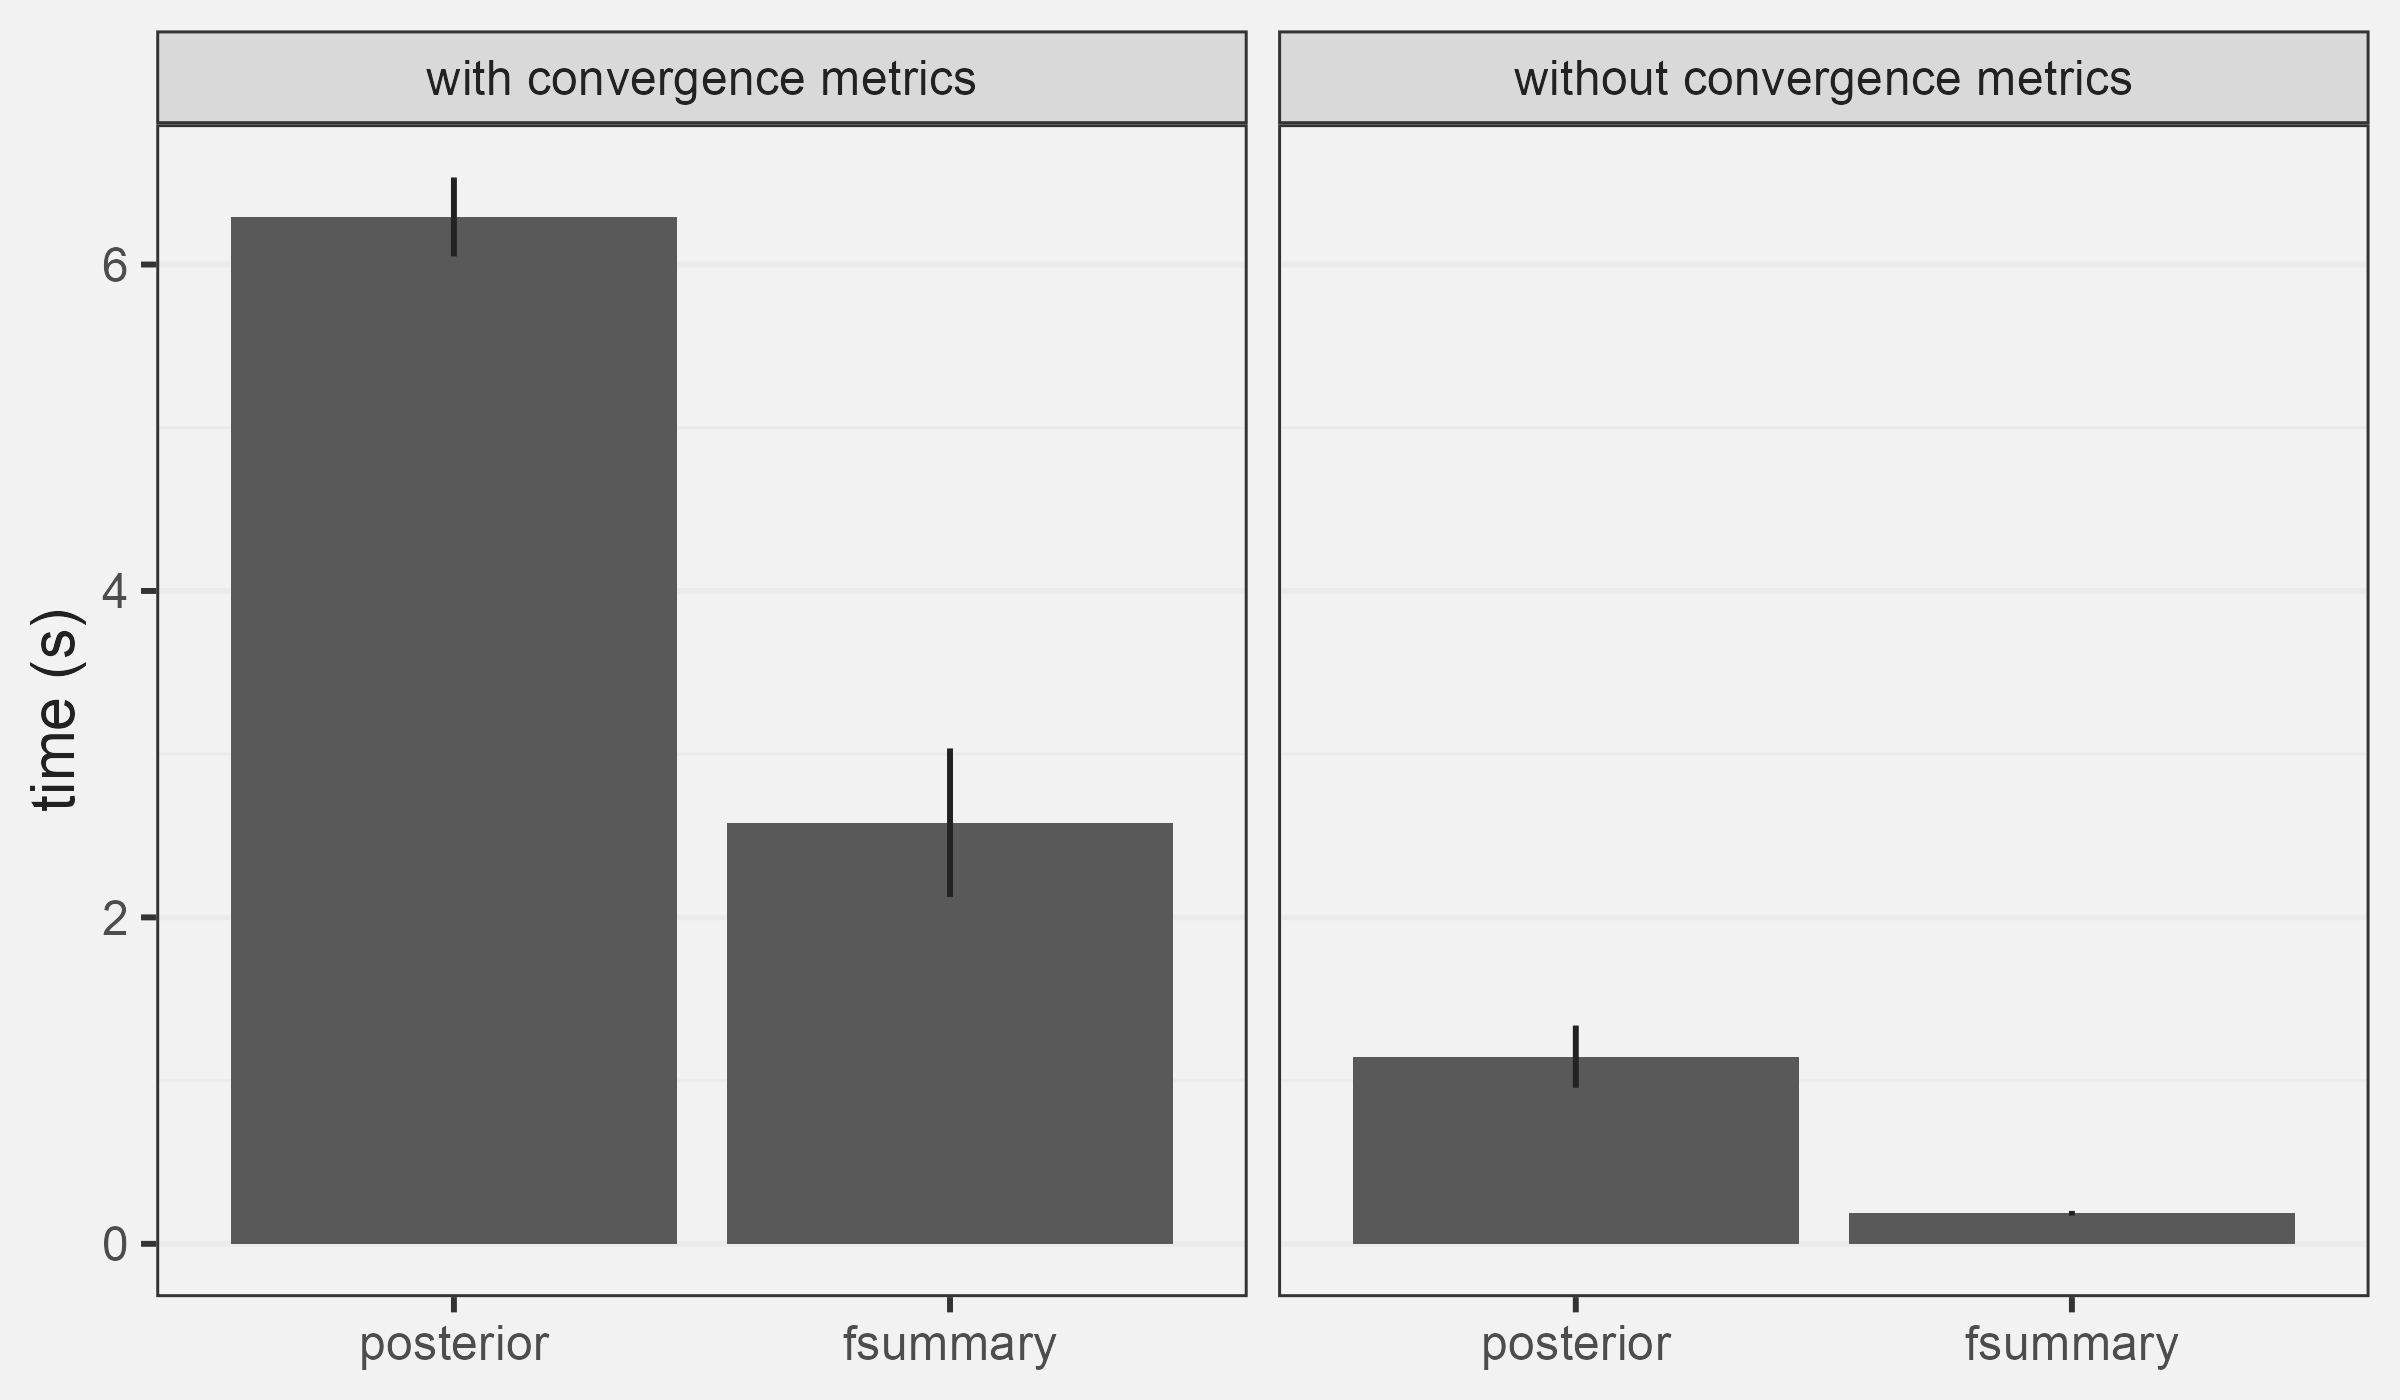
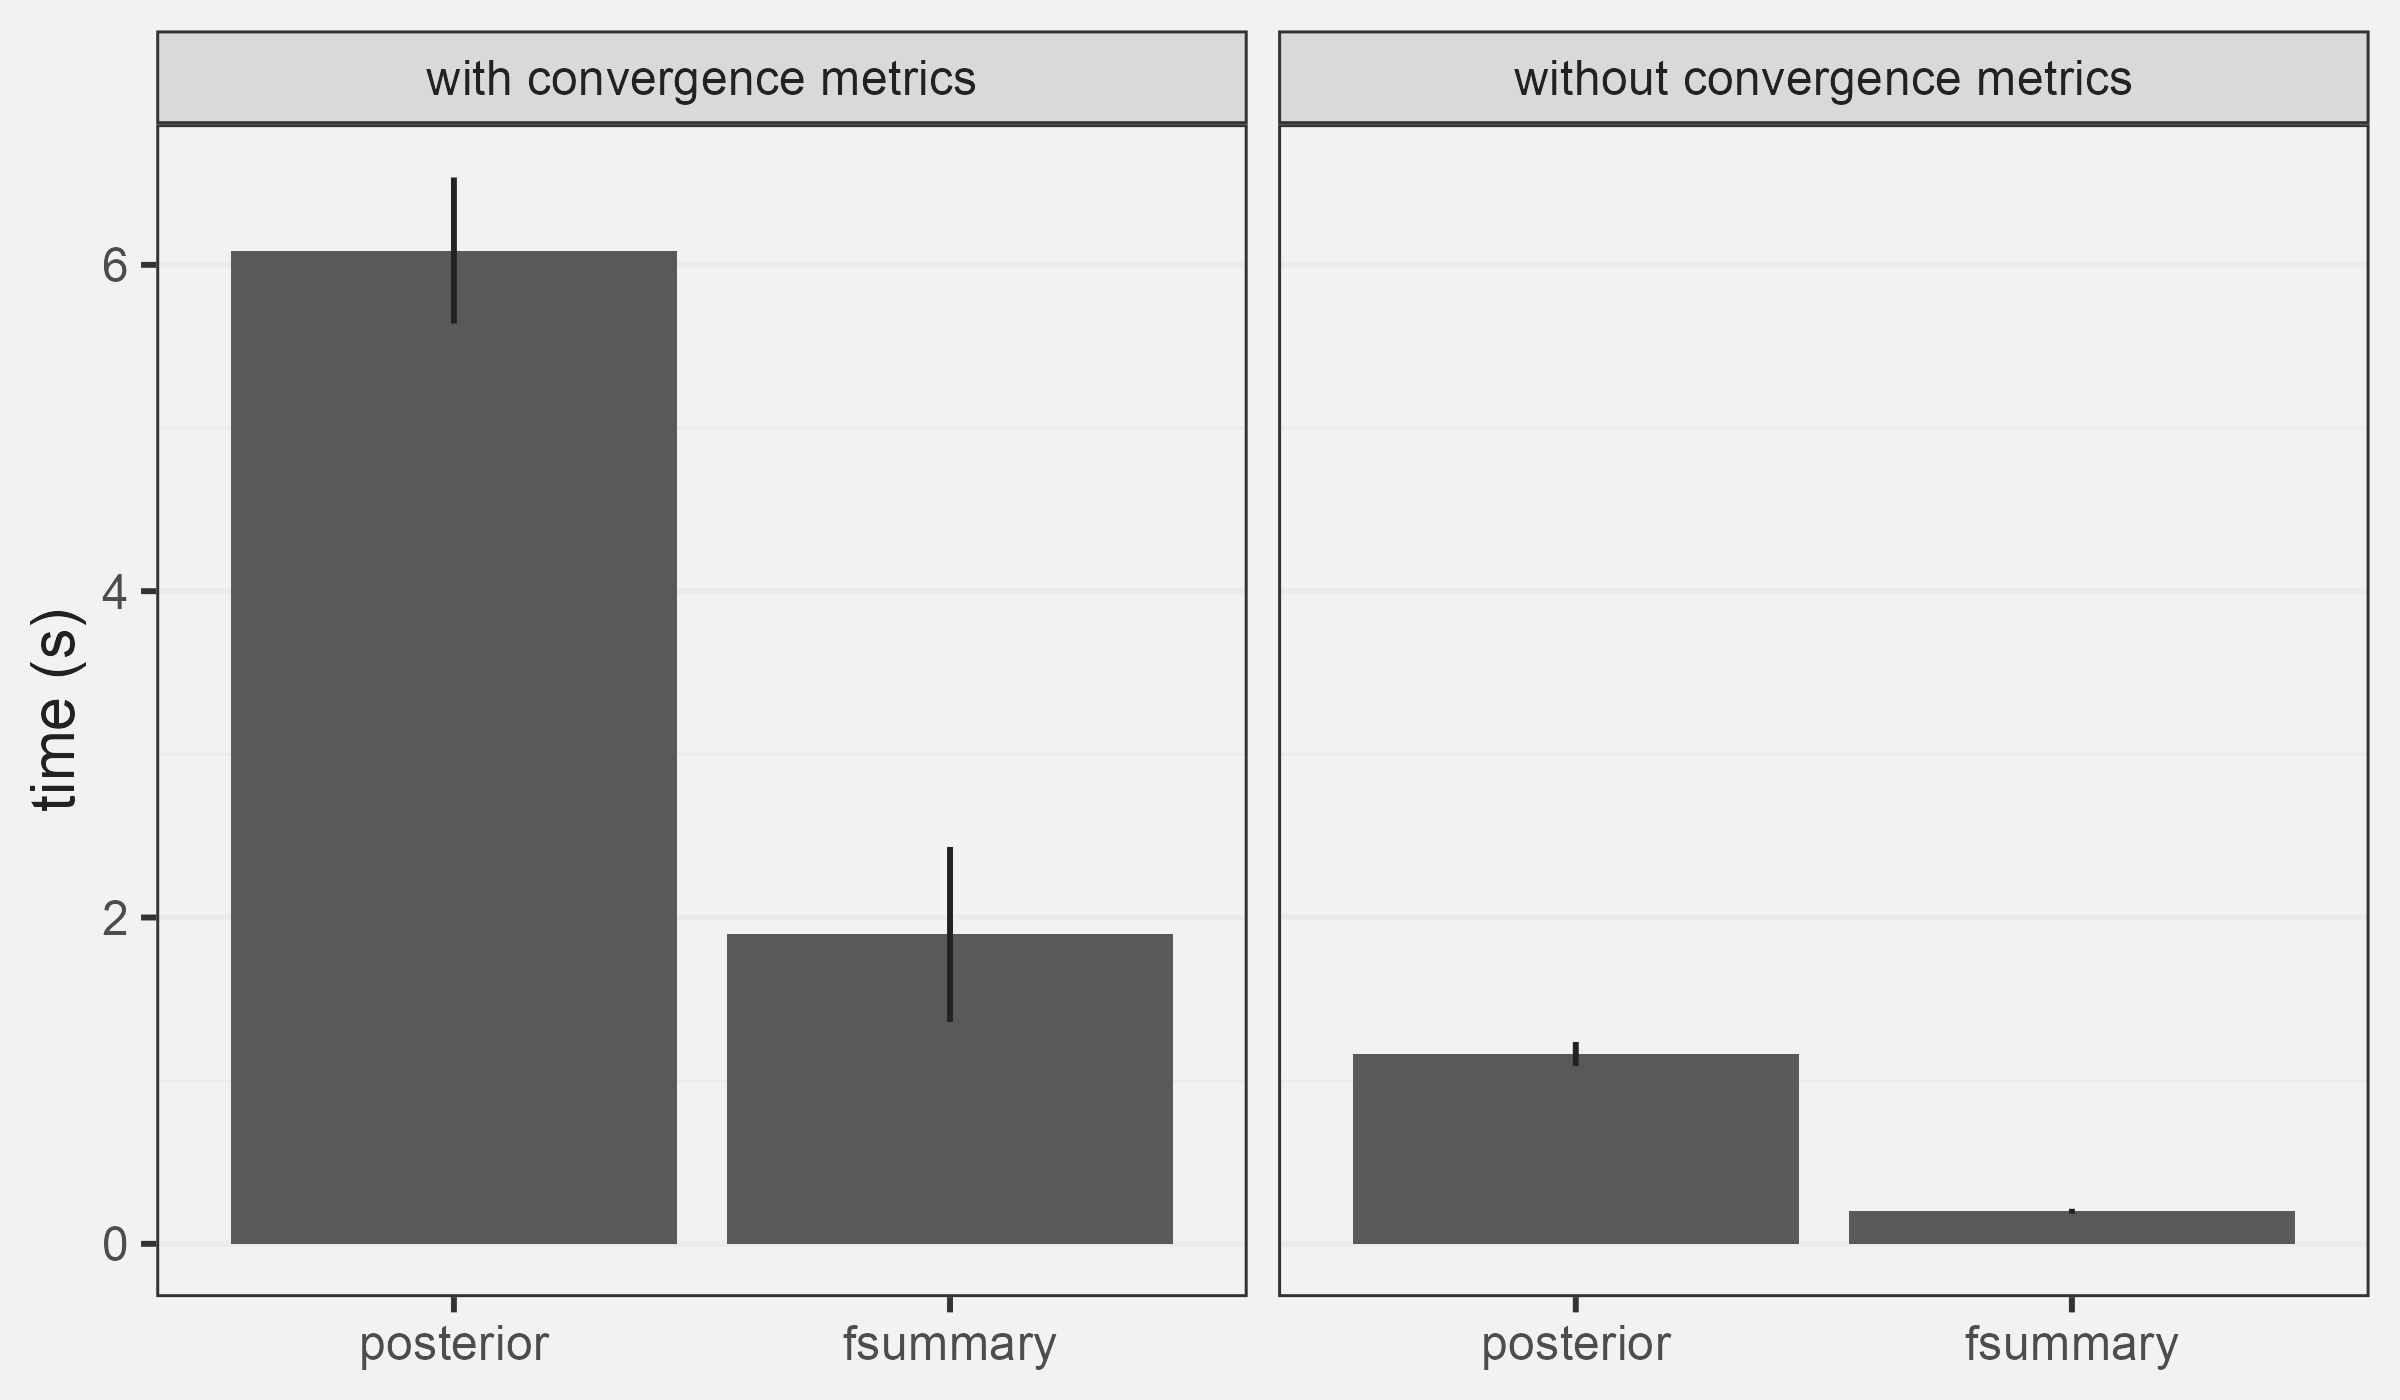
update readme

Changed region(s): [[0.2812, 0.5836, 0.5, 0.6757], [0.0938, 0.1536, 0.2812, 0.1843]]

diff --git a/README.md b/README.md
@@ -40,9 +40,6 @@ ddf = rnorm(4e3*1000) |> # fake 1k draws of 100 example variables from each of 4
 
 fsummary(ddf) |> # instead of posterior::summarise_draws(ddf)
   head() 
-#> Warning: Entered addl acov loop with 3 variables.
-#> Entered addl acov loop with 3 variables.
-#> Warning: Entered addl acov loop with 4 variables.
 #>    variable     mean    median    sd   mad    q5   q95  rhat ess_bulk ess_tail
 #>      <char>    <num>     <num> <num> <num> <num> <num> <num>    <num>    <num>
 #> 1:       V1  0.00733 -0.004966 0.993 0.975 -1.65  1.64     1     4161     3930
@@ -53,26 +50,15 @@ fsummary(ddf) |> # instead of posterior::summarise_draws(ddf)
 #> 6:       V6 -0.00366 -0.000109 1.000 1.013 -1.66  1.66     1     3547     3824
 ```
 
-On one core, it’s about 2-3 times faster than `summarise_draws()` when
+On one core, it’s about 3 times faster than `summarise_draws()` when
 computing convergence metrics and 5-6 times faster without. It also uses
 less memory in both cases. A quick test on my machine:
 
 ``` r
 
 check_fun = function(x,y) {
-  waldo_res = waldo::compare(x, y, tolerance = 1e-6)
-
-  # fsummary returns a data.table instead of a tibble
-  non_classattr_diffs = grep(value = TRUE,
-                             "class\\(old|attr\\(old",
-                             waldo_res,
-                             invert = TRUE)
-
-  values_all_near = all(mapply(\(z, w) all((z - w) < 1e-6),
-                               x |> num_vars(),
-                               y |> num_vars()))
-
-  (length(non_classattr_diffs) == 0) & values_all_near
+  check_res = waldo::compare(x, y, tolerance = 1e-6, ignore_attr = TRUE)
+  length(check_res) == 0
 }
 
 bench::mark(fsummary = {fsummary(ddf, .cores = 1)},
@@ -82,10 +68,10 @@ bench::mark(fsummary = {fsummary(ddf, .cores = 1)},
             filter_gc = FALSE)
 ```
 
-      expression      min   median `itr/sec` mem_alloc `gc/sec` n_itr  n_gc total_time 
-      <bch:expr> <bch:tm> <bch:tm>     <dbl> <bch:byt>    <dbl> <int> <dbl>   <bch:tm> 
-    1 fsummary      2.24s    2.55s     0.388    1.66GB     5.12    10   132      25.8s 
-    2 posterior     6.08s     6.3s     0.159    5.13GB     2.62    10   165      1.05m 
+      expression      min median `itr/sec` mem_alloc `gc/sec` n_itr  n_gc total_time
+      <bch:expr> <bch:tm> <bch:>     <dbl> <bch:byt>    <dbl> <int> <dbl>   <bch:tm>
+    1 fsummary      1.71s  1.75s     0.527  996.79MB     2.06    10    39     18.96s
+    2 posterior     5.88s  6.05s     0.164    5.13GB     1.97    10   120      1.01m
 
 ``` r
 bench::mark(fsummary = {fsummary(ddf, .cores = 1,
@@ -97,16 +83,17 @@ bench::mark(fsummary = {fsummary(ddf, .cores = 1,
             filter_gc = FALSE)
 ```
 
-      expression      min   median `itr/sec` mem_alloc `gc/sec` n_itr  n_gc total_time 
-      <bch:expr> <bch:tm> <bch:tm>     <dbl> <bch:byt>    <dbl> <int> <dbl>   <bch:tm> 
-    1 fsummary    182.7ms 183.54ms     5.33     92.1MB     2.13    10     4      1.87s 
-    2 posterior      1.1s    1.11s     0.872     759MB     2.88    10    33     11.47s 
+
+      expression      min   median `itr/sec` mem_alloc `gc/sec` n_itr  n_gc total_time
+      <bch:expr> <bch:tm> <bch:tm>     <dbl> <bch:byt>    <dbl> <int> <dbl>   <bch:tm>
+    1 fsummary   195.09ms 196.19ms     5.02     92.1MB     1.00     5     1   996.85ms
+    2 posterior     1.14s    1.15s     0.860     759MB     2.24     5    13      5.82s
 
 ![](man/figures/comparison.png)
 
 # TODO
 
-- parallelization
+- parallelization with `mirai`
 - faster convergence metrics with better ranking / qnorm (I’ve gotten
   the inverse normal transformation going twice as fast in Julia at
   least…)
